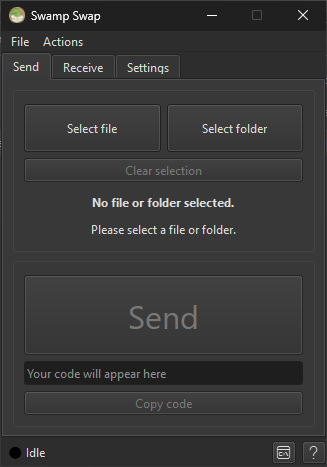
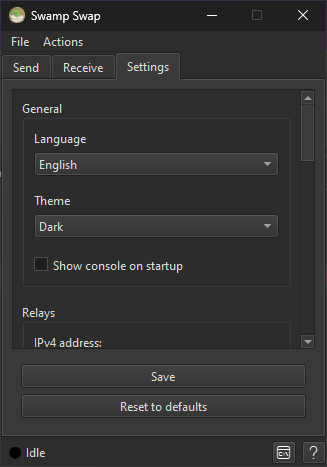
Modify README

diff --git a/README.md b/README.md
@@ -5,9 +5,9 @@
 </div>
 <p align="center">A graphical user interface that controls the command line file transfer program <a href="https://github.com/schollz/croc" target="_blank">croc by Zack Shollz</a>.</p>
 <div align="center" float="left">
-    <img src="/images/SwampSwap_Window_ThemePink.png" width="250px" border="0" alt="Swamp Swap window preview with pink theme">
-    <img src="/images/SwampSwap_Window_ThemeDeepDark.png" width="250px" border="0" alt="Swamp Swap window preview with deep adark theme">
-    <img src="/images/SwampSwap_Window_ThemeDark.png" width="250px" border="0" alt="Swamp Swap window preview with dark theme">
+    <img src="/images/SwampSwap_Window_ThemePink.png" width="250px" border="0" alt="Swamp Swap window preview with pink theme on the send tab">
+    <img src="/images/SwampSwap_Window_ThemeDeepDark.png" width="250px" border="0" alt="Swamp Swap window preview with deep adark theme on the receive tab">
+    <img src="/images/SwampSwap_Window_ThemeDark.png" width="250px" border="0" alt="Swamp Swap window preview with dark theme on the settings tab">
 </div>
 
 ## Overview